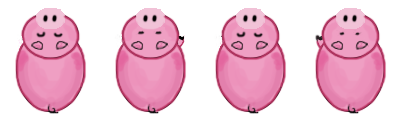
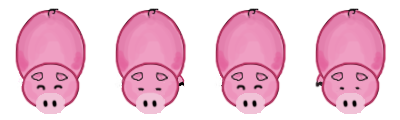
Pig Wander working
Pigs wander is a somewhat random walk.

diff --git a/core/src/com/CS3152/FoodChain/Pig.java b/core/src/com/CS3152/FoodChain/Pig.java
@@ -3,9 +3,14 @@
  */
 package com.CS3152.FoodChain;
 
+import com.badlogic.gdx.ai.steer.behaviors.PrioritySteering;
+import com.badlogic.gdx.ai.steer.behaviors.Wander;
+import com.badlogic.gdx.ai.steer.limiters.LinearAccelerationLimiter;
 import com.badlogic.gdx.assets.AssetManager;
 import com.badlogic.gdx.graphics.Texture;
 import com.badlogic.gdx.graphics.g2d.TextureRegion;
+import com.badlogic.gdx.math.MathUtils;
+import com.badlogic.gdx.math.Vector2;
 
 /**
  * @author Kevin
@@ -34,6 +39,23 @@ public class Pig extends Animal {
         drawScale.y=scaleYDrawSheep;
         SIGHT_LENGTH = 120;
         SIGHT_ANGLE = 0.35;
+        maxLinearSpeed = 500.0f;
+        maxLinearAcceleration = 0.0f;
+        independentFacing = false;
+        
+        Wander<Vector2> wanderSB = new Wander<Vector2>(this)
+        		// Don't use Face internally because independent facing is off
+				.setFaceEnabled(false) //
+				// We don't need a limiter supporting angular components because Face is not used
+				// No need to call setAlignTolerance, setDecelerationRadius and setTimeToTarget for the same reason
+				.setLimiter(new LinearAccelerationLimiter(500)) //
+				.setWanderOffset(500) //
+				.setWanderOrientation(10) //
+				.setWanderRadius(100) //
+				.setWanderRate(MathUtils.PI / 5);
+        setSteeringBehavior(wanderSB);
+        
+        PrioritySteering<Vector2> prioritySteering = new PrioritySteering<Vector2>(this);
     }
 
     /* (non-Javadoc)

diff --git a/core/src/com/CS3152/FoodChain/GameMode.java b/core/src/com/CS3152/FoodChain/GameMode.java
@@ -25,6 +25,7 @@ import com.badlogic.gdx.scenes.scene2d.Stage;
 public class GameMode implements Screen {
 	
 	private CollisionController collisionController;
+	private GameplayController gameplayController;
     
 	private GameCanvas canvas;
    // private boolean active;
@@ -155,6 +156,9 @@ public class GameMode implements Screen {
 //				    				   map, actors);
 //        controls[2] = new AIController(animals.get(1), collisionController.getWorld(),
 //				   					   map, actors);
+        Actor[] actorArray = new Actor[actors.size()];
+        actors.toArray(actorArray);
+        gameplayController = new GameplayController(map, actorArray, controls);
         canvas.getUIControllerStage().setPanic(AIController.getPanicPercentage());
         collisionController.setControls(controls);
 
@@ -232,6 +236,7 @@ public class GameMode implements Screen {
 	            		Pig.loadTexture(manager);
 	                newAnimal = new Pig(map.mapXToScreen((int)coord.x), 
 	                                    map.mapYToScreen((int)coord.y));
+	                newAnimal.setDensity(DEFAULT_DENSITY);
 	                animals.add(newAnimal);
 	                break;
 	                
@@ -325,6 +330,8 @@ public class GameMode implements Screen {
 	    			//System.out.println("You lose");
 	    		}
     		}
+    	
+    	gameplayController.update(delta);
     	
 		hunter.update(delta);
 		trapController.setSelectedTrap(controls[0].getNum());

diff --git a/core/src/com/CS3152/FoodChain/GameplayController.java b/core/src/com/CS3152/FoodChain/GameplayController.java
@@ -19,7 +19,7 @@ public class GameplayController {
 		this.controls = controls;
 	}
 	
-	public void update() {
+	public void update(float delta) {
 		//Updates the animals' actions
 		//i is the index of each animal AI in controls
 		int i = 1;
@@ -32,14 +32,15 @@ public class GameplayController {
 			}
 			//unsure about order of objects.
 			else if (actor instanceof Animal){
-				if (actor instanceof Owl) {
+				/**if (actor instanceof Owl) {
 					//System.out.println ("instanceof"); 
 					moveOwl((Owl) actor, i); 
 				}
 				else {
 					move((Animal) actor,i);
 				
-				}
+				}*/
+				actor.update(delta);
 				i++;
 			}
 			//System.out.println(o.getPosition().toString());

diff --git a/core/src/com/CS3152/FoodChain/Animal.java b/core/src/com/CS3152/FoodChain/Animal.java
@@ -329,8 +329,10 @@ public abstract class Animal extends Actor implements Steerable<Vector2>{
 
     	// Update position and linear velocity.
     	if (!steeringOutput.linear.isZero()) {
-    		Vector2 force = steeringOutput.linear.scl(deltaTime);
-    		body.applyForceToCenter(force, true);
+    		//Vector2 force = steeringOutput.linear.scl(deltaTime);
+    		Vector2 force = steeringOutput.linear.scl(1);
+    		//body.applyForceToCenter(force, true);
+    		body.applyLinearImpulse(force, getPosition(), true);
     		anyAccelerations = true;
     	}
 
